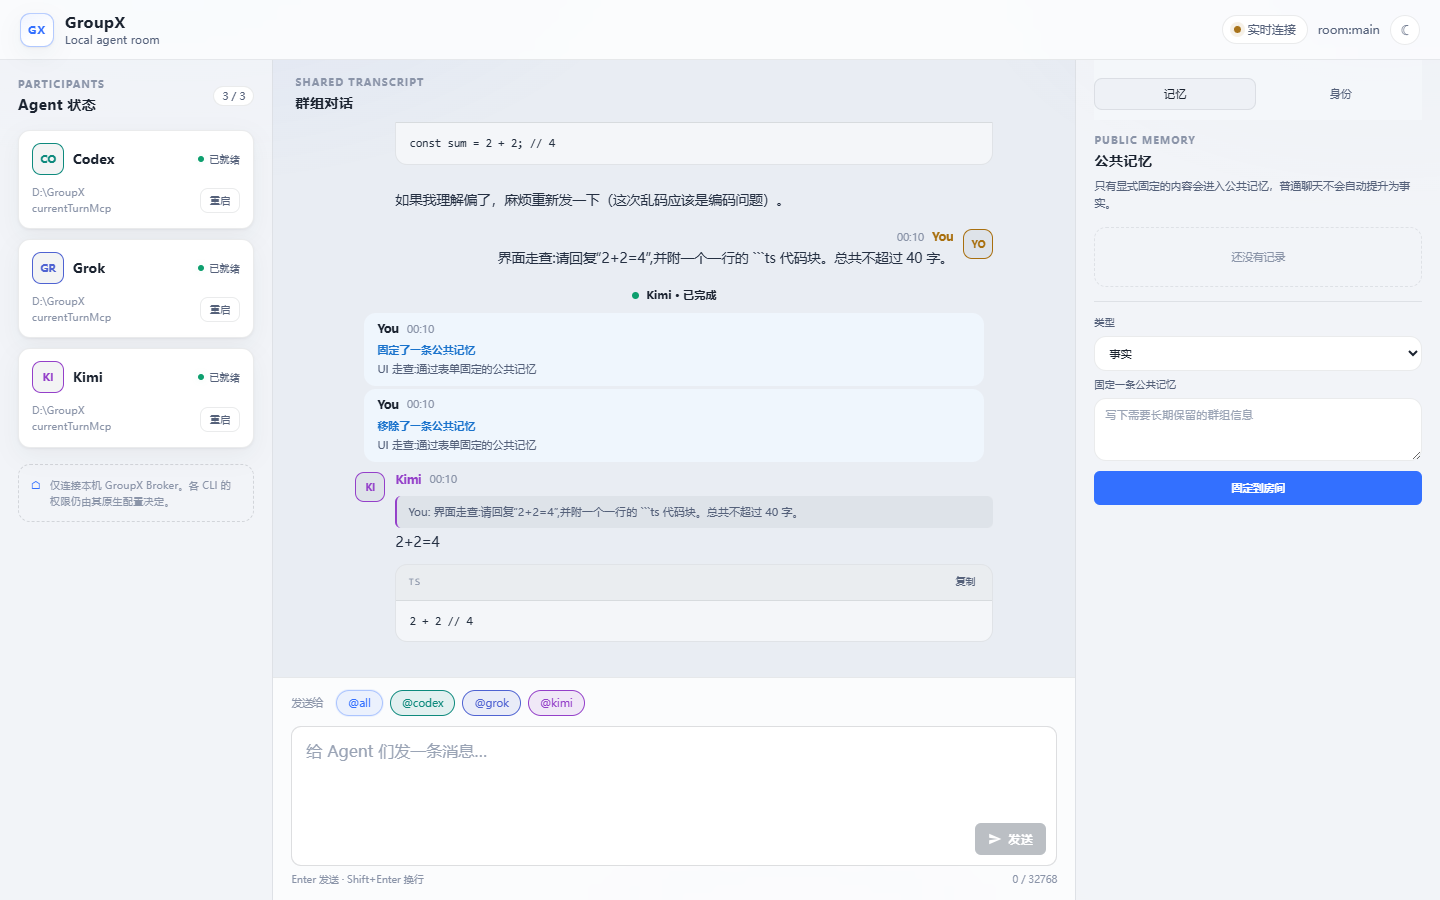
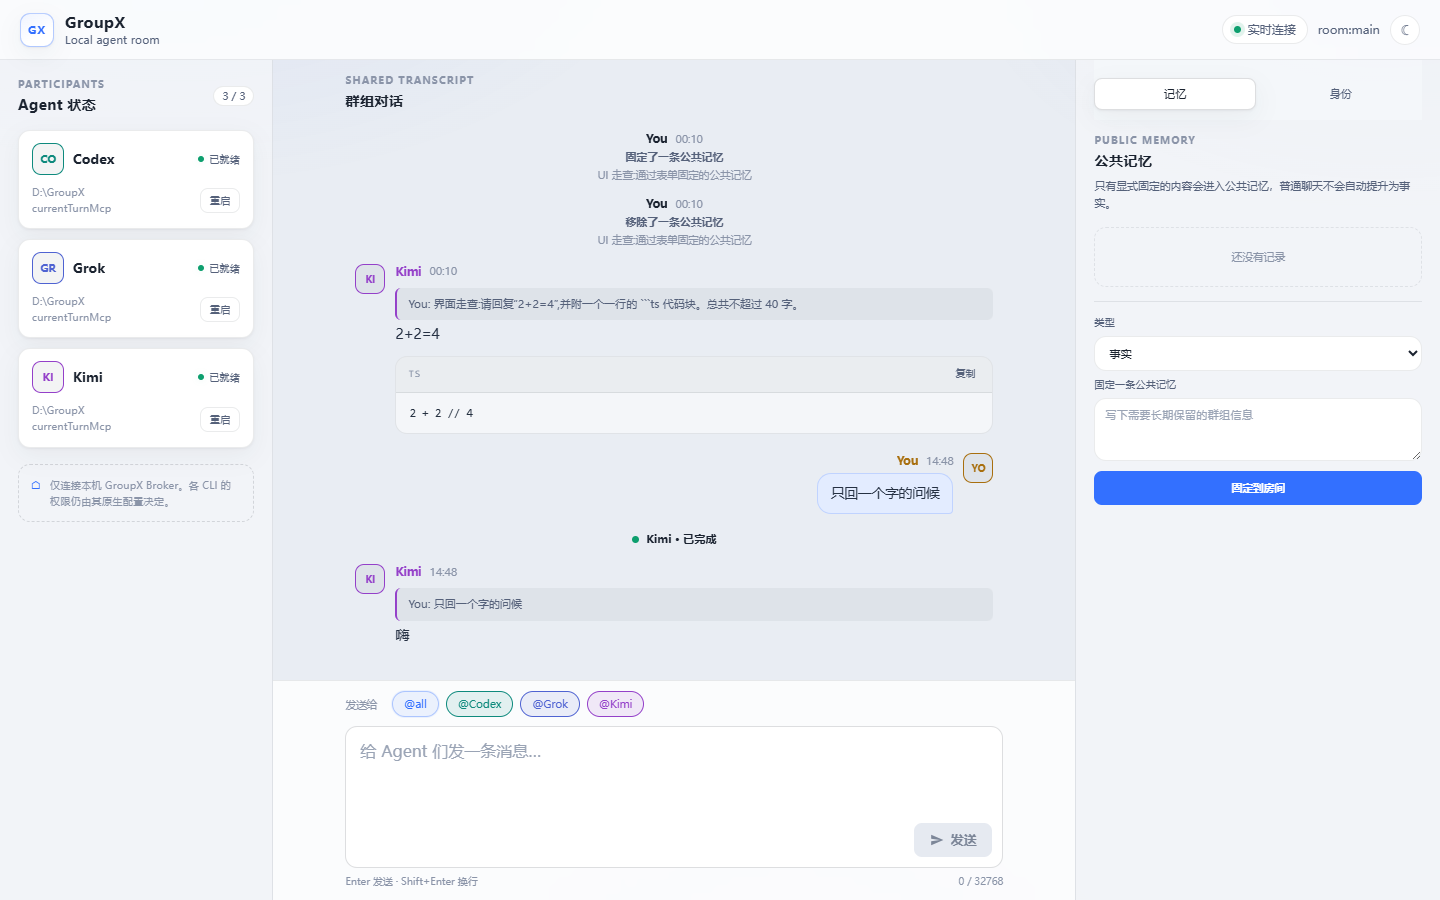
polish(web): 飞书风细节打磨 — 用户气泡、系统通知瘦身、发送键主色化
- 自己的消息改为浅蓝气泡(双主题),meta 顺序调整为「名字 时间」
- 记忆固定/移除等系统事件改为居中弱化通知,不再是大灰条
- 发送按钮加大加重(34px/8px 圆角/hover 投影),禁用态改柔和灰
- 会话列对齐:标题/时间线/输入区统一 max(24px,5vw) 左右边距
- 上下文 Tab 激活态加白底+投影,用户消息悬停操作条移至头像旁
- README 换 npm 动态徽章,双主题截图更新;版本 0.1.1

diff --git a/web/styles.css b/web/styles.css
@@ -29,8 +29,8 @@
   --success: #0d9f6e;
   --success-wash: rgba(13, 159, 110, 0.12);
 
-  --btn-disabled-bg: #bbbfc4;
-  --btn-disabled-ink: #ffffff;
+  --btn-disabled-bg: #e6eaf1;
+  --btn-disabled-ink: #7c8698;
 
   --danger: #d6314a;
   --danger-wash: rgba(214, 49, 74, 0.08);
@@ -65,7 +65,8 @@
   --inline-code-bg: rgba(27, 35, 48, 0.07);
   --inline-code-text: #b25e09;
 
-  --user-card-bg: #fdf5e4;
+  --user-bubble-bg: #e3ecff;
+  --user-bubble-border: rgba(51, 112, 255, 0.2);
   --activity-bg: #eff6fd;
   --activity-border: rgba(26, 115, 204, 0.2);
 
@@ -159,7 +160,8 @@
   --inline-code-bg: rgba(148, 163, 184, 0.09);
   --inline-code-text: #ffd9a8;
 
-  --user-card-bg: #26200f;
+  --user-bubble-bg: rgba(76, 136, 255, 0.17);
+  --user-bubble-border: rgba(76, 136, 255, 0.3);
   --activity-bg: #0c131c;
   --activity-border: rgba(124, 199, 255, 0.14);
 
@@ -734,7 +736,7 @@ input:disabled {
 }
 
 .conversation-heading {
-  padding: 16px 22px 10px;
+  padding: 14px max(24px, 5vw) 8px;
 }
 
 .quiet-button {
@@ -981,10 +983,6 @@ input:disabled {
   font-size: 0.66rem;
 }
 
-.actor-user-card .event-meta {
-  flex-direction: row-reverse;
-}
-
 .actor-name {
   overflow: hidden;
   color: var(--tone, var(--text));
@@ -1022,7 +1020,12 @@ input:disabled {
 }
 
 .actor-user-card .event-content {
-  text-align: right;
+  max-width: min(560px, 85%);
+  margin-top: 5px;
+  padding: 8px 13px;
+  border: 1px solid var(--user-bubble-border);
+  border-radius: 14px 14px 4px 14px;
+  background: var(--user-bubble-bg);
 }
 
 .actor-user-card .reply-reference {
@@ -1045,8 +1048,8 @@ input:disabled {
 }
 
 .actor-user-card .event-actions {
-  right: auto;
-  left: 8px;
+  right: 48px;
+  left: auto;
 }
 
 .event-card:hover .event-actions,
@@ -1246,21 +1249,27 @@ input:disabled {
 
 .activity-card {
   max-width: 620px;
+  padding: 5px 13px;
   margin: 0 auto;
-  background: var(--activity-bg);
+  background: transparent;
+  text-align: center;
+}
+
+.activity-card .event-meta {
+  justify-content: center;
 }
 
 .activity-line {
-  margin: 7px 0 0;
-  color: var(--info);
+  margin: 4px 0 0;
+  color: var(--muted);
   font-size: 0.68rem;
   font-weight: 600;
 }
 
 .activity-preview {
-  margin: 4px 0 0;
-  color: var(--muted);
-  font-size: 0.68rem;
+  margin: 3px 0 0;
+  color: var(--subtle);
+  font-size: 0.66rem;
   line-height: 1.55;
 }
 
@@ -1288,7 +1297,7 @@ input:disabled {
 
 .composer {
   z-index: 3;
-  padding: 12px 18px 14px;
+  padding: 10px max(24px, 5vw) 12px;
   border-top: 1px solid var(--line);
   background: var(--glass-bg);
   backdrop-filter: blur(18px) saturate(1.2);
@@ -1299,13 +1308,13 @@ input:disabled {
   flex-wrap: wrap;
   gap: 7px;
   padding: 0;
-  margin: 0 0 10px;
+  margin: 0 0 9px;
   border: 0;
 }
 
 .target-picker legend {
   float: left;
-  padding: 6px 6px 0 0;
+  padding: 7px 8px 0 0;
   color: var(--subtle);
   font-size: 0.66rem;
 }
@@ -1420,7 +1429,7 @@ input:disabled {
 
 .composer-box {
   border: 1px solid var(--line-strong);
-  border-radius: 10px;
+  border-radius: var(--radius-md);
   background: var(--bg-2);
   transition: border-color 140ms ease, box-shadow 140ms ease;
 }
@@ -1461,21 +1470,21 @@ input:disabled {
 .send-button,
 .secondary-button {
   border: 0;
-  border-radius: 6px;
+  border-radius: 8px;
   background: var(--accent);
   color: var(--accent-ink);
   font-weight: 600;
-  transition: background 130ms ease, color 130ms ease;
+  transition: background 130ms ease, color 130ms ease, box-shadow 130ms ease;
 }
 
 .send-button {
   display: inline-flex;
   align-items: center;
   justify-content: center;
-  gap: 6px;
-  min-height: 32px;
-  padding: 0 13px;
-  font-size: 0.78rem;
+  gap: 7px;
+  min-height: 34px;
+  padding: 0 16px;
+  font-size: 0.8rem;
 }
 
 .send-icon {
@@ -1485,7 +1494,8 @@ input:disabled {
 
 .send-button:hover:not(:disabled),
 .secondary-button:hover:not(:disabled) {
-  background: color-mix(in srgb, var(--accent) 84%, #ffffff);
+  background: var(--accent-strong);
+  box-shadow: 0 4px 14px var(--accent-border);
 }
 
 .send-button:active:not(:disabled),
@@ -1556,9 +1566,10 @@ input:disabled {
 }
 
 .context-tab.is-active {
-  border-color: var(--line);
-  background: var(--bg-3);
+  border-color: var(--line-strong);
+  background: var(--bg-2);
   color: var(--text);
+  box-shadow: var(--shadow-card);
 }
 
 .context-section[hidden] {
@@ -1768,6 +1779,10 @@ input:disabled {
   .conversation-panel {
     flex: 1 1 auto;
     min-height: 640px;
+  }
+
+  .conversation-heading {
+    padding: 12px 14px 8px;
   }
 
   .timeline {

diff --git a/README.md b/README.md
@@ -6,7 +6,7 @@
 
 一句话 @all 齐发,三种思路同屏飙车 —— 全在你自己机器上。
 
-![Version](https://img.shields.io/badge/version-0.1.0-3370ff)
+![npm](https://img.shields.io/npm/v/@susyimes/groupx?color=3370ff&label=npm)
 ![Node](https://img.shields.io/badge/node-24.14.x-3c873a)
 ![Tests](https://img.shields.io/badge/tests-409%20passing-0d9f6e)
 ![Platform](https://img.shields.io/badge/platform-Windows%20%C2%B7%20macOS%20%C2%B7%20Linux-0078d6)
